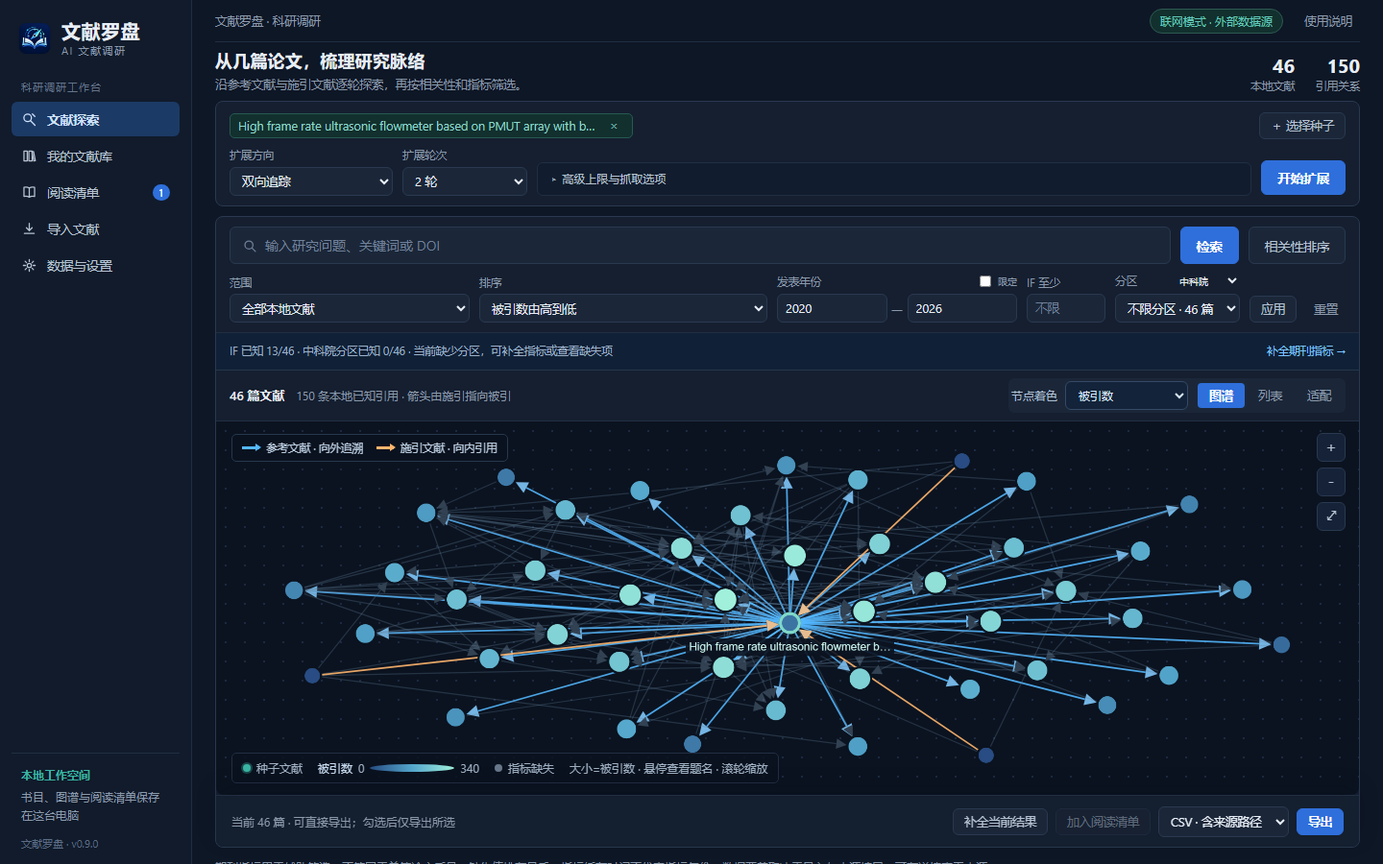
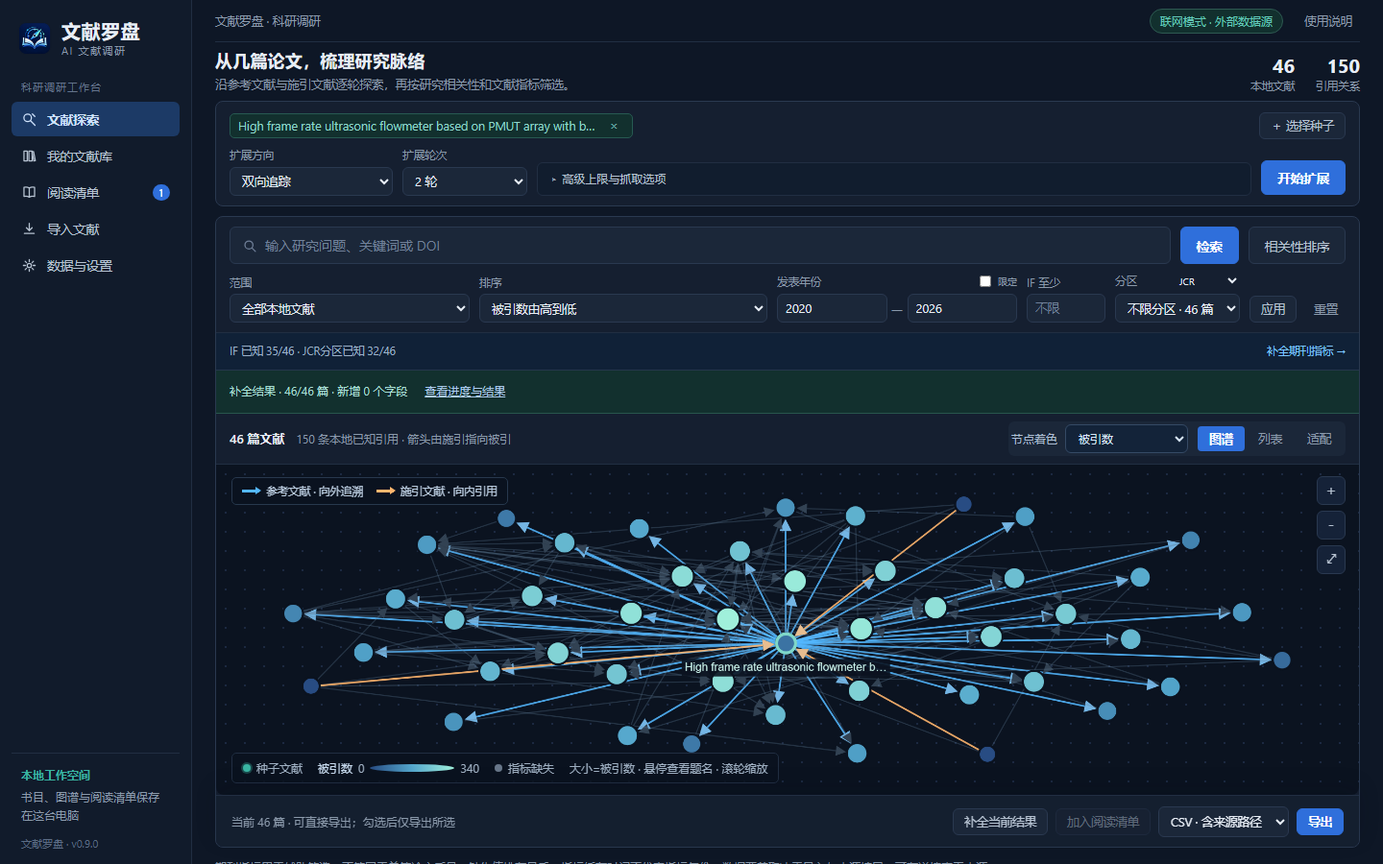
Restore journal metric cache imports and verified partition filtering

diff --git a/static/workspace.html b/static/workspace.html
@@ -25,7 +25,7 @@
 <div id="graph-wrap"><div id="graph" role="img" aria-label="文献引用网络图，点击节点查看文献"></div><div class="graph-zoom"><button id="zoom-in" class="zoom-btn" title="放大" aria-label="放大图谱">＋</button><button id="zoom-out" class="zoom-btn" title="缩小" aria-label="缩小图谱">－</button><button id="zoom-fit" class="zoom-btn" title="适应窗口" aria-label="适应窗口">⤢</button></div><div class="graph-relations"><span><i class="relation-reference"></i>参考文献 · 向外追溯</span><span><i class="relation-citing"></i>施引文献 · 向内引用</span></div><div id="graph-tooltip" class="graph-tooltip" hidden></div><div class="graph-legend" id="graph-color-legend"></div><div id="graph-empty" class="empty" hidden>没有符合条件的文献，请调整筛选条件。</div></div>
 <div id="list-wrap" class="list-wrap" hidden><table class="papers-table"><thead><tr><th><input type="checkbox" id="select-all" aria-label="全选当前结果"></th><th>文献与发现依据</th><th>年份</th><th>被引数</th><th>IF / 分区</th><th>清单</th></tr></thead><tbody id="papers-body"></tbody></table><div id="list-empty" class="empty" hidden>没有符合条件的文献。</div></div><footer class="result-footer"><span id="selection-count">列表中勾选文献以批量操作</span><div><button id="enrich-results" class="secondary small">补全当前结果</button><button id="add-selected" class="secondary small">加入阅读清单</button><select id="export-format" aria-label="导出格式"><option value="csv">CSV · 含来源路径</option><option value="ris">RIS · 文献管理器</option><option value="graphml">GraphML · 图网络</option></select><button id="export-btn" class="primary small">导出</button></div></footer></section><p class="data-footnote">期刊指标用于辅助筛选，不等同于单篇论文质量。缺失值排在最后；指标缓存时间不代表指标年份。数据覆盖取决于导入与来源接口，可在详情查看来源。</p></section>
 <section id="import-page" class="secondary-page" hidden><span class="eyebrow">ADD YOUR PAPERS</span><h1>导入自己的调研起点</h1><p>先导入已知论文，再回到探索工作台选择种子。重复条目会按标识及标题合并。</p><div class="form-card"><label>导入格式<select id="import-format"><option value="doi">DOI · 联网获取书目信息</option><option value="bibtex">BibTeX · 可离线</option><option value="ris">RIS · 可离线</option><option value="standard">标准 JSONL · 可离线</option><option value="pdf-folder">本地 PDF 文件夹</option></select></label><label>导入内容<textarea id="import-content" rows="10" placeholder="每行一个 DOI，或粘贴 BibTeX / RIS / 标准文献 JSONL；PDF 文件夹格式请填写绝对路径"></textarea></label><details><summary>标准格式的引用边与期刊指标</summary><label>引用边 JSONL<textarea id="import-citations" rows="3" placeholder='{"from_doi":"10.x/a","to_doi":"10.x/b"}'></textarea></label><label>期刊指标 JSONL<textarea id="import-venues" rows="3" placeholder='{"name":"期刊名称","impact_factor":"5.0","cas_zone":"2区","source":"自备已授权数据"}'></textarea></label></details><button id="import-btn" class="primary">导入文献</button><pre id="import-result" class="operation-result" hidden></pre></div><div class="form-card"><h2>Zotero 本地文献库</h2><p>先在“数据与设置”启用 Zotero 集成，并在 Zotero 中允许本地 API。同步仅读取书目与附件路径。</p><button id="zotero-sync" class="secondary">同步本地 Zotero</button></div></section>
-<section id="settings-page" class="secondary-page" hidden><span class="eyebrow">MODEL &amp; DATA</span><h1>数据与设置</h1><p>联网时会向所用学术数据源发送 DOI 或检索请求。本地文本排序不调用外部模型。</p><div class="form-card ai-settings-card"><span class="eyebrow">AI 辅助阅读</span><div class="ai-connections-heading"><h2>模型连接</h2><button id="ai-new-profile" class="secondary small">＋ 新建连接</button></div><div id="ai-profile-list" class="ai-profile-list" aria-label="已保存的模型连接"></div><h3 id="ai-editor-title">编辑连接</h3><p>选择模型服务，填入模型名称和 API 密钥，即可使用摘要速览与全文解读。</p><div class="ai-settings-fields"><label>连接名称<input id="ai-profile-name" maxlength="100" placeholder="例如：日常阅读、长文分析" autocomplete="off"></label><label>模型服务<select id="ai-service"><option value="zju">浙江大学模型服务</option><option value="custom">其他支持的兼容接口</option><option value="deepseek">DeepSeek</option><option value="openai">OpenAI</option></select></label><label id="ai-url-row">服务地址<input id="ai-url" type="url" placeholder="粘贴服务商提供的 API 地址" autocomplete="off"></label><label>模型名称<input id="ai-model-name" placeholder="填写服务商提供的模型名称" autocomplete="off"></label><label>API 密钥<input id="ai-key-input" type="password" placeholder="粘贴 API 密钥" autocomplete="off" spellcheck="false"></label></div><label class="ai-enable"><input id="ai-set-active" type="checkbox" checked>设为当前使用的连接</label><label class="ai-enable"><input id="ai-enable-online" type="checkbox" checked>启用 AI（点击生成时联网）</label><div class="ai-save-row"><button id="ai-save-config" class="primary">保存连接</button><button id="ai-test-config" class="secondary">测试连接</button><span id="ai-config-state" role="status">尚未读取配置</span></div><small class="muted">密钥保存在本机，不会显示在页面或导出文件中。</small></div><div class="form-card" id="data-source-settings"><span class="eyebrow">学术数据接口</span><h2>补全书目与期刊指标</h2><p>Crossref 和公开出版商页面无需另配密钥。OpenAlex 用于书目与引用信息；easyScholar 用于 IF、JCR 和中科院分区。模型密钥与这些数据源密钥分别配置。</p><div class="source-config-grid"><label>OpenAlex API Key（可选）<input id="source-openalex-key" type="password" autocomplete="off" placeholder="尚未配置"><span id="source-openalex-status" role="status"></span></label><div><button class="secondary small" data-source-save="openalex">保存</button><button class="text-button" data-source-delete="openalex">删除配置</button></div><label>easyScholar secretKey（补充分区）<input id="source-easyscholar-key" type="password" autocomplete="off" placeholder="尚未配置"><span id="source-easyscholar-status" role="status"></span></label><div><button class="secondary small" data-source-save="easyscholar">保存</button><button class="text-button" data-source-delete="easyscholar">删除配置</button></div></div><p class="muted">密钥不回显。保存后，在文献详情或结果底部点击补全信息。</p></div><div class="form-card"><h2>连接与数据来源</h2><label class="check-label"><input type="checkbox" id="offline-mode">离线模式 · 只使用本地数据与已有缓存</label><label class="check-label"><input type="checkbox" id="zotero-enabled">启用 Zotero 本地只读集成</label><label>OpenAlex 联系邮箱 可选<input id="mailto" type="email" placeholder="按需填写"></label><button id="save-settings" class="primary">保存设置</button><p class="muted">数据源密钥可在上方直接配置；联网可用性受服务认证、限流及数据覆盖范围影响。</p></div><div class="form-card"><h2>本地模型与筛选含义</h2><p>文本相关性采用 TF-IDF 与潜在语义分析 LSA，在本地标题和摘要上建立统计表示。排序分数由 70% 词项相似度与 30% LSA 相似度组成；样本过少时退回 TF-IDF。词表外查询会明确提示。</p><p>引用网络相似度根据共同参考文献与共同施引文献计算。社区颜色来自 Louvain 算法，表示网络结构分组，不自动命名研究主题。期刊 IF 和分区沿用导入或缓存来源，展示的时间是缓存更新时间。</p><a href="/api/export/graphml?include_candidates=true">导出全部本地图谱 GraphML →</a></div></section><footer class="app-footer">文献罗盘 —— AI驱动的科研文献调研与速览平台 <span>面向科研初期调研的文献扩展与筛选</span></footer></main>
+<section id="settings-page" class="secondary-page" hidden><span class="eyebrow">MODEL &amp; DATA</span><h1>数据与设置</h1><p>联网时会向所用学术数据源发送 DOI 或检索请求。本地文本排序不调用外部模型。</p><div class="form-card ai-settings-card"><span class="eyebrow">AI 辅助阅读</span><div class="ai-connections-heading"><h2>模型连接</h2><button id="ai-new-profile" class="secondary small">＋ 新建连接</button></div><div id="ai-profile-list" class="ai-profile-list" aria-label="已保存的模型连接"></div><h3 id="ai-editor-title">编辑连接</h3><p>选择模型服务，填入模型名称和 API 密钥，即可使用摘要速览与全文解读。</p><div class="ai-settings-fields"><label>连接名称<input id="ai-profile-name" maxlength="100" placeholder="例如：日常阅读、长文分析" autocomplete="off"></label><label>模型服务<select id="ai-service"><option value="zju">浙江大学模型服务</option><option value="custom">其他支持的兼容接口</option><option value="deepseek">DeepSeek</option><option value="openai">OpenAI</option></select></label><label id="ai-url-row">服务地址<input id="ai-url" type="url" placeholder="粘贴服务商提供的 API 地址" autocomplete="off"></label><label>模型名称<input id="ai-model-name" placeholder="填写服务商提供的模型名称" autocomplete="off"></label><label>API 密钥<input id="ai-key-input" type="password" placeholder="粘贴 API 密钥" autocomplete="off" spellcheck="false"></label></div><label class="ai-enable"><input id="ai-set-active" type="checkbox" checked>设为当前使用的连接</label><label class="ai-enable"><input id="ai-enable-online" type="checkbox" checked>启用 AI（点击生成时联网）</label><div class="ai-save-row"><button id="ai-save-config" class="primary">保存连接</button><button id="ai-test-config" class="secondary">测试连接</button><span id="ai-config-state" role="status">尚未读取配置</span></div><small class="muted">密钥保存在本机，不会显示在页面或导出文件中。</small></div><div class="form-card" id="data-source-settings"><span class="eyebrow">学术数据接口</span><h2>补全书目与期刊指标</h2><p>Crossref 和公开出版商页面无需另配密钥。OpenAlex 用于书目与引用信息；easyScholar 用于 IF、JCR 和中科院分区。模型密钥与这些数据源密钥分别配置。</p><div class="source-config-grid"><label>OpenAlex API Key（可选）<input id="source-openalex-key" type="password" autocomplete="off" placeholder="尚未配置"><span id="source-openalex-status" role="status"></span></label><div><button class="secondary small" data-source-save="openalex">保存</button><button class="text-button" data-source-delete="openalex">删除配置</button></div><label>easyScholar secretKey（补充分区）<input id="source-easyscholar-key" type="password" autocomplete="off" placeholder="尚未配置"><span id="source-easyscholar-status" role="status"></span></label><div><button class="secondary small" data-source-save="easyscholar">保存</button><button class="text-button" data-source-delete="easyscholar">删除配置</button></div></div><p class="muted">密钥不回显。保存后，在文献详情或结果底部点击补全信息。</p><div class="metric-cache-import"><button class="secondary small" id="import-metric-cache">导入已有指标缓存</button><input type="file" id="metric-cache-file" accept=".jsonl,.ndjson,.json" hidden><span id="metric-cache-status" role="status">支持 easyScholar JSONL，导入后点击补全指标；无需再次联网。</span></div></div><div class="form-card"><h2>连接与数据来源</h2><label class="check-label"><input type="checkbox" id="offline-mode">离线模式 · 只使用本地数据与已有缓存</label><label class="check-label"><input type="checkbox" id="zotero-enabled">启用 Zotero 本地只读集成</label><label>OpenAlex 联系邮箱 可选<input id="mailto" type="email" placeholder="按需填写"></label><button id="save-settings" class="primary">保存设置</button><p class="muted">数据源密钥可在上方直接配置；联网可用性受服务认证、限流及数据覆盖范围影响。</p></div><div class="form-card"><h2>本地模型与筛选含义</h2><p>文本相关性采用 TF-IDF 与潜在语义分析 LSA，在本地标题和摘要上建立统计表示。排序分数由 70% 词项相似度与 30% LSA 相似度组成；样本过少时退回 TF-IDF。词表外查询会明确提示。</p><p>引用网络相似度根据共同参考文献与共同施引文献计算。社区颜色来自 Louvain 算法，表示网络结构分组，不自动命名研究主题。期刊 IF 和分区沿用导入或缓存来源，缓存日期与指标所属年份分别标注，未记录的年份显示未知。</p><a href="/api/export/graphml?include_candidates=true">导出全部本地图谱 GraphML →</a></div></section><footer class="app-footer">文献罗盘 —— AI驱动的科研文献调研与速览平台 <span>面向科研初期调研的文献扩展与筛选</span></footer></main>
 <dialog id="seed-dialog"><div class="dialog-heading"><div><h2>选择种子文献</h2><p>从一篇已知论文出发，也可选择多篇互补的起点。</p></div><button data-close="seed-dialog" class="icon-button" aria-label="关闭种子选择">×</button></div><input id="seed-search" class="full-input" placeholder="搜索标题、中文标题或 DOI" aria-label="搜索种子文献"><div id="seed-results" class="seed-results"></div><div class="dialog-footer"><span id="seed-picked"></span><button id="confirm-seeds" class="primary">使用所选种子</button></div></dialog>
 <dialog id="detail-dialog" class="detail-dialog" data-side-panel="1"><div class="dialog-heading"><span class="eyebrow">文献详情 · PAPER DETAIL</span><button data-close="detail-dialog" class="icon-button" aria-label="关闭文献详情">×</button></div><div id="detail-content"></div><div class="detail-tabs"><button data-detail-tab="overview" class="active">摘要与来源</button><button data-detail-tab="references">参考文献</button><button data-detail-tab="citing">施引文献</button><button data-detail-tab="similar">网络推荐</button></div><div id="detail-tab-content"></div></dialog>
 <dialog id="help-dialog"><div class="dialog-heading"><h2>用一条可追溯的路径开展调研</h2><button data-close="help-dialog" class="icon-button" aria-label="关闭说明">×</button></div><ol class="help-list"><li>选择种子：导入一篇已知论文，再沿参考与施引关系拓展。</li><li>开始扩展：指定方向、轮次和数量。离线探索已有边；联网模式补充 OpenAlex 数据后继续扩展。</li><li>比较筛选：用问题或种子进行本地文本排序，结合年份、IF、分区及被引数筛选。</li><li>查看来源：点击节点或标题，核对摘要、DOI、引用路径和指标来源。</li><li>保存清单：列表勾选或在详情中加入清单，可填写阅读备注并导出 CSV、RIS、GraphML。</li></ol><p class="muted">扩展有采样上限，不承诺穷尽某一方向。引用关系与文本相似度为调研线索，最终判断需要阅读原文。</p></dialog><div id="toast" role="status" hidden></div>

diff --git a/static/workspace.js b/static/workspace.js
@@ -16,7 +16,7 @@ async function loadResults(){const version=++state.request;$('result-count').tex
 function reason(p){const bits=[];if(p.is_seed)bits.push('<span class="tag seed">种子</span>');const d=p.discovery;if(d&&d.depth>0){bits.push(`第 ${d.depth} 轮 · ${d.relation==='references'?'参考文献':'施引文献'} · 经文献 #${d.parent}`);bits.push(typeof d.support_count==='number'?`发现依据 ${d.support_count} 条${d.support_truncated?'（至少）':''}`:'发现依据：未记录');}if(p.relevance!==undefined)bits.push(`文本相关度 ${(p.relevance*100).toFixed(1)}%${p.matched_terms?.length?' · 匹配 '+p.matched_terms.map(esc).join(' / '):''}`);if($('sort').value==='network')bits.push(`网络分数 ${p.network_score} · 共同参考 ${p.shared_refs} · 共同施引 ${p.shared_citers}`);return bits.join('<br>');}
 function renderResults(){const data=state.data;renderMetricAvailability(data.facets);$('result-count').textContent=`${data.total} 篇文献${data.shown<data.total?` · 当前展示 ${data.shown} 篇`:''}`;$('result-caption').textContent=`${data.edges.length} 条本地已知引用 · 箭头由施引指向被引`;$('graph-empty').hidden=!!data.shown;$('list-empty').hidden=!!data.shown;
  const model=data.model;const modelVisible=$('sort').value==='relevance';$('model-note').hidden=!modelVisible;$('model-note').classList.toggle('warning',model.status!=='ok');$('model-note').textContent=modelVisible?`${model.method} ${model.components?`· ${model.components} 个潜在维度`:''}　${model.hint||''}　${model.status==='ok'?`在 ${model.corpus_size} 篇本地文献上建模；分数用于阅读排序。`:''}`:'';
- $('papers-body').innerHTML=data.papers.map(p=>{const v=p.venue_info||{};const hasIF=v.impact_factor!=null&&v.impact_factor!=='';const metricTip=`指标来源：${v.source||'未提供'} · 更新：${v.updated_at||'未知'} · 指标年份：${v.metric_year||'指标年份未知'}`;return `<tr><td><input type="checkbox" data-select="${p.id}" aria-label="选择 ${esc(p.title)}"></td><td><button class="paper-title" data-paper="${p.id}">${esc(p.title||p.title_zh||'未命名文献')}</button>${p.title_zh&&p.title_zh!==p.title?`<div class="paper-zh">${esc(p.title_zh)}</div>`:''}<div class="paper-meta">${esc((p.authors||[]).slice(0,2).join(' · '))}${p.venue?'　|　'+esc(p.venue):''}</div>${reason(p)?`<div class="reason">${reason(p)}</div>`:''}</td><td class="metric">${p.year==null?'—':p.year}</td><td class="metric">${(p.cited_by_count??0).toLocaleString()}</td><td class="metric" title="${esc(metricTip)}">${hasIF?'IF '+esc(v.impact_factor):'IF 未知'}<br>${v.cas_zone!=null&&v.cas_zone!==''?esc(v.cas_zone):'分区未知'}<br><small class="metric-year">${esc(v.metric_year?`指标年份 ${v.metric_year}`:'指标年份未知')}</small></td><td><button class="save-paper ${p.in_reading_list?'saved':''}" data-save="${p.id}" aria-label="${p.in_reading_list?'移出':'加入'}阅读清单">${p.in_reading_list?'▣':'▢'}</button></td></tr>`;}).join('');
+ $('papers-body').innerHTML=data.papers.map(p=>{const v=p.venue_info||{};const hasIF=v.impact_factor!=null&&v.impact_factor!=='';const metricTip=`指标来源：${v.source||'未提供'} · 更新：${v.updated_at||'未知'} · IF 年份：${v.metric_year||'指标年份未知'}`;return `<tr><td><input type="checkbox" data-select="${p.id}" aria-label="选择 ${esc(p.title)}"></td><td><button class="paper-title" data-paper="${p.id}">${esc(p.title||p.title_zh||'未命名文献')}</button>${p.title_zh&&p.title_zh!==p.title?`<div class="paper-zh">${esc(p.title_zh)}</div>`:''}<div class="paper-meta">${esc((p.authors||[]).slice(0,2).join(' · '))}${p.venue?'　|　'+esc(p.venue):''}</div>${reason(p)?`<div class="reason">${reason(p)}</div>`:''}</td><td class="metric">${p.year==null?'—':p.year}</td><td class="metric">${(p.cited_by_count??0).toLocaleString()}</td><td class="metric" title="${esc(metricTip)}">${hasIF?'IF '+esc(v.impact_factor):'IF 未知'}<br>${v.cas_zone!=null&&v.cas_zone!==''?esc(v.cas_zone):'分区未知'}<br><small class="metric-year">${esc(v.metric_year?`IF 年份 ${v.metric_year}`:'指标年份未知')}</small></td><td><button class="save-paper ${p.in_reading_list?'saved':''}" data-save="${p.id}" aria-label="${p.in_reading_list?'移出':'加入'}阅读清单">${p.in_reading_list?'▣':'▢'}</button></td></tr>`;}).join('');
  updateSelection();if(state.view==='graph')drawGraph();}
 function renderMetricAvailability(f){
  if(!f)return;const scheme=$('zone-scheme').value,known=f[scheme+'_known']||0,total=f.total||0,zones=f[scheme+'_zones']||{},sel=$('cas-max'),selected=sel.value;
@@ -175,7 +175,7 @@ async function attachExistingBlocks(p){
       if(sum&&sum.text)extra.insertAdjacentHTML('afterbegin',`<div class="existing-block"><h3>已有总结</h3>${originBadgeHtml(sum.origin)}<p class="abstract">${esc(sum.text)}</p></div>`);
     }
   }catch(e){/* 端点不存在：已有总结区块保持隐藏 */}
-  try{const r=await fetch('/api/research/enrichment/sources/'+myId);if(r.ok&&state.detail?.id===myId&&state.detailTab==='overview'){const data=await r.json();if(data.sources?.length){const names={title:'题名',abstract:'原文摘要',authors:'作者',year:'年份',venue:'期刊',impact_factor:'IF',cas_zone:'中科院分区',jcr_zone:'JCR 分区',title_zh:'中文题名',abstract_zh:'中文摘要译文',summary:'概括'};extra.insertAdjacentHTML('beforeend','<details class="supports-block"><summary>补全信息的来源记录</summary>'+data.sources.map(x=>{let proof={};try{proof=JSON.parse(x.evidence||'{}');}catch(e){}const link=typeof x.url==='string'&&x.url.startsWith('https://')?` · <a href="${esc(x.url)}" target="_blank" rel="noopener">查看来源 ↗</a>`:'';return `<p class="paper-meta">${esc(names[x.field]||x.field)} · ${esc(x.source)} · ${esc(x.recorded_at?.slice(0,10))}${link}</p>${proof.quote?`<blockquote class="source-proof">${esc(proof.quote)}</blockquote>`:''}`;}).join('')+'</details>');}}}catch(e){}
+  try{const r=await fetch('/api/research/enrichment/sources/'+myId);if(r.ok&&state.detail?.id===myId&&state.detailTab==='overview'){const data=await r.json();if(data.sources?.length){const names={title:'题名',abstract:'原文摘要',authors:'作者',year:'年份',venue:'期刊',impact_factor:'IF',cas_zone:'中科院分区',jcr_zone:'JCR 分区',title_zh:'中文题名',abstract_zh:'中文摘要译文',summary:'概括'};extra.insertAdjacentHTML('beforeend','<details class="supports-block"><summary>补全信息的来源记录</summary>'+data.sources.map(x=>{let proof={};try{proof=JSON.parse(x.evidence||'{}');}catch(e){}const metric=['impact_factor','cas_zone','jcr_zone'].includes(x.field);const dates=metric?' · 指标年份 '+(proof.year||'未记录')+(proof.queried_at?' · 来源查询 '+proof.queried_at.slice(0,10):''):'';const link=typeof x.url==='string'&&x.url.startsWith('https://')?` · <a href="${esc(x.url)}" target="_blank" rel="noopener">查看来源 ↗</a>`:'';return `<p class="paper-meta">${esc(names[x.field]||x.field)} · ${esc(x.source)} · ${esc(x.recorded_at?.slice(0,10))}${esc(dates)}${link}</p>${proof.quote?`<blockquote class="source-proof">${esc(proof.quote)}</blockquote>`:''}`;}).join('')+'</details>');}}}catch(e){}
   // 2) Zotero 同步状态（GET /api/library/sync/status?paper_id=<当前 id>，V4-07 修复：
   //    不再请求无过滤的默认前 500 条；响应按 id 校验归属，快速切换不串页）
   try{const r=await fetch(detailSyncStatusUrl(myId));

diff --git a/static/workspace.css b/static/workspace.css
@@ -381,6 +381,7 @@ dialog.detail-dialog::backdrop{background:transparent}
 .source-config-grid{display:grid;grid-template-columns:minmax(0,1fr) auto;gap:16px;align-items:center;margin:20px 0}.source-config-grid input{width:100%;height:38px}.source-config-grid>div{display:flex;gap:6px}.source-config-grid label span{font-size:11px;color:#8ba8c5}
 .enrichment-dialog{width:min(720px,calc(100vw - 32px));max-height:calc(100dvh - 44px);padding:25px;overflow:auto}.enrichment-dialog header{display:flex;justify-content:space-between;align-items:flex-start;gap:15px;margin-bottom:15px}.enrichment-dialog h2{font-size:21px;margin-top:5px}.enrichment-dialog>p{color:#afc1d6;font-size:13px;line-height:1.9}.enrichment-options{display:grid;gap:10px;margin:22px 0}.enrichment-options label{display:flex;flex-direction:row;align-items:flex-start;gap:11px;padding:15px;border:1px solid #2c435d;border-radius:8px;background:#15273c}.enrichment-options input{margin-top:4px}.enrichment-options strong{display:block;color:#dfedf9;font-size:14px;margin-bottom:5px}.enrichment-options small{display:block;line-height:1.8;color:#8fa8c4;font-size:12px}.enrichment-dialog footer{display:flex;gap:10px;justify-content:flex-end;margin-top:22px;padding-top:16px;border-top:1px solid #2b3d53}.enrichment-dialog progress{width:100%;height:9px;accent-color:#49c1a7;margin-top:16px}.enrichment-stats{display:flex;gap:30px;padding:20px 0}.enrichment-stats span{font-size:12px;color:#96abc3}.enrichment-stats strong{font-size:24px;color:#a5e9d8;display:block;margin-bottom:4px}.enrichment-items{max-height:40vh;overflow:auto}.enrichment-items article{padding:15px 0;border-top:1px solid #283c53}.enrichment-items strong{font-size:13px;color:#d8e9f8;line-height:1.6}.enrichment-items p,.enrichment-items summary{font-size:12px;line-height:1.9;color:#92afc8;margin-top:7px}.enrichment-items details{padding:5px 0}.enrichment-items summary{cursor:pointer;color:#d9b886}
 .source-proof{margin:8px 0;padding:8px 12px;border-left:2px solid #416f8b;background:#142438;color:#9fb9d0;font-size:12px;line-height:1.8;overflow-wrap:anywhere}
+.metric-cache-import{display:flex;align-items:center;gap:15px;margin-top:18px;padding-top:18px;border-top:1px solid #2b4058}.metric-cache-import span{font-size:12px;color:#91aac4;line-height:1.8}
 .ai-profile-list{display:grid;gap:9px;margin:14px 0 26px}.ai-profile{display:flex;justify-content:space-between;gap:20px;padding:15px;border:1px solid #30455d;background:#102136;border-radius:8px}.ai-profile>div:first-child{min-width:0}.ai-profile strong{font-size:14px;color:#e2edf9}.ai-profile p{font-size:12px;color:#91a9c4;margin:5px 0;overflow-wrap:anywhere}.profile-active{display:inline-block;font-size:10px;color:#83dfca;background:#163b35;border-radius:12px;padding:2px 8px;margin-left:10px}.profile-test{font-size:11px;color:#8da1b8}.profile-test.ok{color:#7ad8b8}.profile-test.failed{color:#edb087}.profile-actions{display:flex;align-items:center;gap:6px;flex-wrap:wrap;justify-content:flex-end}.profile-actions button{color:#9cc9ed;font-size:12px;padding:5px 8px;border:1px solid #2d4965;border-radius:5px}.profile-actions button.danger{color:#e7a09c}.profile-empty{font-size:13px;color:#9aacbf;padding:17px;border:1px dashed #35475c;border-radius:8px}#ai-editor-title{font-size:15px;color:#cae0f3;padding-top:18px;border-top:1px solid #2d3c50;margin-bottom:13px}.profile-delete-dialog{max-width:460px;padding:24px}.profile-delete-dialog p{margin-top:14px;line-height:1.8}.profile-delete-dialog>div{display:flex;gap:10px;justify-content:flex-end;margin-top:24px}.profile-delete-dialog [data-confirm]{background:#a44441;border-color:#a44441}#toast{pointer-events:none;bottom:76px}
 @media(max-width:1100px){.result-toolbar{flex-wrap:wrap}.result-toolbar>div:first-child{flex:1}.advanced-grid{grid-template-columns:repeat(2,minmax(0,1fr))}.filter-row{gap:8px}}
 @media(max-width:760px){.expansion-controls{grid-template-columns:1fr 1fr}.expansion-controls>.primary{grid-column:2}.graph-relations{font-size:10px;gap:8px;right:55px;left:10px}.result-footer{padding:9px 10px}.result-footer>div{gap:5px}.result-footer .small{padding:5px 7px}.year-label{gap:3px}}

diff --git a/static/data_sources.js b/static/data_sources.js
@@ -2,3 +2,5 @@
 async function load(){const r=await fetch('/api/data-sources');if(!r.ok)throw Error('数据源配置读取失败');const d=await r.json();for(const n of names){const input=document.getElementById('source-'+n+'-key');input.value='';input.placeholder=d[n].configured?'已保存；填写后可替换':'粘贴数据源提供的密钥';document.getElementById('source-'+n+'-status').textContent=d[n].configured?'已配置':'未配置';}}
 document.addEventListener('click',async e=>{if(e.target.closest('[data-page="settings"]'))load().catch(()=>{});const b=e.target.closest('[data-source-save],[data-source-delete]');if(!b)return;const name=b.dataset.sourceSave||b.dataset.sourceDelete,output=document.getElementById('source-'+name+'-status'),input=document.getElementById('source-'+name+'-key');b.disabled=true;output.textContent='正在保存…';try{const r=await fetch('/api/data-sources',{method:'POST',headers:{'Content-Type':'application/json'},body:JSON.stringify({service:name,api_key:input.value,clear:!!b.dataset.sourceDelete})});const d=await r.json();if(!r.ok)throw Error(typeof d.detail==='string'?d.detail:'保存失败');await load();output.textContent=b.dataset.sourceDelete?'配置已删除':'保存成功，可开始补全';}catch(e){output.textContent=e.message;}finally{b.disabled=false;}});
 })();
+
+(()=>{const button=document.getElementById('import-metric-cache'),input=document.getElementById('metric-cache-file'),status=document.getElementById('metric-cache-status');button.onclick=()=>input.click();input.onchange=async()=>{const file=input.files[0];if(!file)return;button.disabled=true;status.textContent='正在导入期刊指标…';try{if(file.size>8000000)throw Error('请选择不超过 8 MB 的文件');const r=await fetch('/api/data-sources/metrics-cache',{method:'POST',headers:{'Content-Type':'application/json'},body:JSON.stringify({text:await file.text()})});const d=await r.json();if(!r.ok)throw Error(typeof d.detail==='string'?d.detail:'缓存导入失败');status.textContent='已导入 '+d.imported+' 个期刊'+(d.rejected?'，跳过 '+d.rejected+' 条无有效指标记录':'')+'。请在文献中点击补全指标。';}catch(e){status.textContent=e.message;}finally{input.value='';button.disabled=false;}};})();

diff --git a/app/data_sources.py b/app/data_sources.py
@@ -2,6 +2,7 @@
 from fastapi import APIRouter,HTTPException
 from .config import DATA_DIR
 from .private_settings import LOCK,read_json,atomic_json,service_key
+import json,os,re,tempfile
 router=APIRouter(prefix='/api/data-sources')
 NAMES={'openalex','easyscholar'}
 
@@ -23,3 +24,49 @@ def save(body:dict):
         try:atomic_json(path,value)
         except OSError:raise HTTPException(500,'数据源设置保存失败')
     return {'saved':True,**status()}
+
+@router.post('/metrics-cache')
+def import_metrics_cache(body:dict):
+    from . import venues
+    from .linkview import number,zone_number
+    text=body.get('text')
+    if not isinstance(text,str) or len(text.encode('utf-8'))>8_000_000:raise HTTPException(400,'请选择不超过 8 MB 的期刊指标 JSONL 文件')
+    lines=[line for line in text.splitlines() if line.strip()]
+    if len(lines)>10000:raise HTTPException(400,'每次最多导入 10000 条期刊指标')
+    records={};rejected=0
+    for line in lines:
+        try:
+            row=json.loads(line);name=row.get('name');rank=row.get('rank')
+            if not isinstance(name,str) or not name.strip() or len(name)>300 or not isinstance(rank,dict):raise ValueError()
+            clean={}
+            for key in ('sciif','sci','sciUp'):
+                value=rank.get(key)
+                if not isinstance(value,(str,int,float)) or isinstance(value,bool):continue
+                value=str(value).strip()
+                if len(value)>40:continue
+                valid=number(value) if key=='sciif' else zone_number(value)
+                if valid is not None and (key!='sciif' or 0<=valid<=1000):
+                    if key=='sciif':
+                        if re.fullmatch(r'\d+(?:\.\d+)?',value):clean[key]=value
+                    else:clean[key]='Q'+str(valid) if key=='sci' else str(valid)+'区'
+            if not clean:raise ValueError()
+            rec={'name':name.strip(),'k':venues.norm_name(name),'rank':clean,'imported':True}
+            at=str(row.get('at') or '')
+            if re.fullmatch(r'\d{4}-\d{2}-\d{2}(?:[ T]\d{2}:\d{2}:\d{2}(?:\.\d+)?(?:Z|[+-]\d{2}:\d{2})?)?',at):rec['at']=at
+            year=row.get('metric_year')
+            if isinstance(year,int) and not isinstance(year,bool) and 1900<=year<=2099:rec['metric_year']=year
+            records[rec['k']]=rec
+        except (ValueError,TypeError,AttributeError):rejected+=1
+    if not records:raise HTTPException(400,'文件中没有有效的 easyScholar 期刊指标记录')
+    with LOCK:
+        values={**venues._load_cache(),**records};path=venues.CACHE_PATH;path.parent.mkdir(parents=True,exist_ok=True)
+        fd,name=tempfile.mkstemp(dir=path.parent,suffix='.tmp')
+        try:
+            with os.fdopen(fd,'w',encoding='utf-8') as out:
+                for row in values.values():out.write(json.dumps(row,ensure_ascii=False)+'\n')
+            os.replace(name,path);venues._cache=values
+        except OSError:raise HTTPException(500,'期刊指标缓存保存失败')
+        finally:
+            from pathlib import Path
+            Path(name).unlink(missing_ok=True)
+    return {'imported':len(records),'rejected':rejected,'message':'指标缓存已导入；点击补全信息即可匹配到文献。缓存日期不作为指标年份。'}

diff --git a/tests/test_metric_cache.py b/tests/test_metric_cache.py
@@ -1,0 +1,42 @@
+"""Legacy cache compatibility, sanitised imports and honest metric dates."""
+import json,os,sys,tempfile,unittest
+from pathlib import Path
+from unittest.mock import patch
+T=tempfile.TemporaryDirectory();os.environ['PAPERNET_DATA_DIR']=T.name
+sys.path.insert(0,str(Path(__file__).resolve().parents[1]))
+from app import venues,data_sources,metadata_sources
+
+class MetricCache(unittest.TestCase):
+ def setUp(self):venues._cache=None;venues.CACHE_PATH.unlink(missing_ok=True)
+ def row(self,**kw):return {'name':'Test & Journal','k':'test and journal','rank':{'sciif':'8.8','sci':'Q1','sciUp':'1区'},'at':'2026-09-26 01:58:06',**kw}
+ def upload(self,row):return data_sources.import_metrics_cache({'text':json.dumps(row,ensure_ascii=False)})
+ def test_legacy_key_uses_journal_name_and_ampersand_alias(self):
+  venues.CACHE_PATH.write_text(json.dumps(self.row()),encoding='utf-8')
+  self.assertEqual(venues.local_rank('Test and Journal')['rank']['sci'],'Q1')
+ def test_import_discards_credentials_and_raw_payload(self):
+  self.upload(self.row(api_key='synthetic-never-stored',raw={'secretKey':'synthetic-never-stored'}))
+  content=venues.CACHE_PATH.read_text(encoding='utf-8');self.assertNotIn('synthetic-never-stored',content)
+  self.assertEqual(venues.local_rank('Test & Journal')['rank']['sciif'],'8.8')
+ def test_cache_query_date_does_not_become_metric_year(self):
+  self.upload(self.row());result=metadata_sources.authorized_metrics('Test & Journal')
+  self.assertIsNone(result['metric_year']);self.assertEqual(result['_source'],'easyScholar 缓存')
+  self.assertEqual(result['evidence']['cas_zone']['queried_at'],'2026-09-26 01:58:06')
+ def test_explicit_metric_year_is_preserved(self):
+  self.upload(self.row(metric_year=2024));self.assertEqual(metadata_sources.authorized_metrics('Test & Journal')['metric_year'],2024)
+ def test_invalid_records_and_empty_ranks_are_counted(self):
+  text='\n'.join([json.dumps(self.row()),'null','[]','invalid',json.dumps(self.row(name='No ranks',rank={}))])
+  result=data_sources.import_metrics_cache({'text':text});self.assertEqual(result['imported'],1);self.assertEqual(result['rejected'],4)
+ def test_empty_and_oversize_uploads_rejected(self):
+  for text in ('', 'x'*8_000_001):
+   with self.assertRaises(data_sources.HTTPException):data_sources.import_metrics_cache({'text':text})
+ def test_failed_atomic_import_preserves_previous_cache(self):
+  self.upload(self.row());before=venues.CACHE_PATH.read_bytes()
+  with patch.object(data_sources.os,'replace',side_effect=OSError('disk')):
+   with self.assertRaises(data_sources.HTTPException):self.upload(self.row(name='New Journal'))
+  self.assertEqual(venues.CACHE_PATH.read_bytes(),before);self.assertIsNone(venues.local_rank('New Journal'))
+ def test_negative_cache_does_not_block_configured_online_lookup(self):
+  with patch.object(venues,'local_rank',return_value={'name':'Test & Journal','rank':None}),patch.object(venues,'load_key',return_value='synthetic'),patch.object(venues,'online_rank',return_value=(self.row(),False)) as lookup:
+   result=metadata_sources.authorized_metrics('Test & Journal')
+  lookup.assert_called_once();self.assertEqual(result['_source'],'easyScholar')
+
+if __name__=='__main__':unittest.main()

diff --git a/app/venues.py b/app/venues.py
@@ -24,7 +24,7 @@ _cache = None
 
 
 def norm_name(name: str) -> str:
-    return re.sub(r"[^a-z0-9\u4e00-\u9fff]+", "", (name or "").lower())
+    return re.sub(r"[^a-z0-9\u4e00-\u9fff]+", "", (name or "").lower().replace('&',' and '))
 
 
 def _load_cache():
@@ -38,16 +38,19 @@ def _load_cache():
                     continue
                 try:
                     rec = json.loads(line)
-                    _cache[rec["k"]] = rec
-                except (ValueError, KeyError):
+                    # Older workflows used spaces and "and" in the cache key;
+                    # the journal's actual name is the stable matching input.
+                    key=norm_name(rec.get('name') or rec.get('k'))
+                    if key:_cache[key] = rec
+                except (ValueError, KeyError, TypeError, AttributeError):
                     continue
     return _cache
 
 
 def local_rank(name: str):
     """本地缓存查询。返回 {rank:{...}, at} 或 None。"""
-    cache = _load_cache()
-    return cache.get(norm_name(name))
+    from .private_settings import LOCK
+    with LOCK:return _load_cache().get(norm_name(name))
 
 
 def load_key():
@@ -89,14 +92,16 @@ def online_rank(name: str, key: str):
         "rank": allrank,
         "at": time.strftime("%Y-%m-%d", time.localtime()),
     }
-    _load_cache()
-    _cache[rec["k"]] = rec
-    try:
-        CACHE_PATH.parent.mkdir(parents=True, exist_ok=True)
-        with CACHE_PATH.open("a", encoding="utf-8", newline="\n") as f:
-            f.write(json.dumps(rec, ensure_ascii=False) + "\n")
-    except OSError:
-        pass  # 共享缓存写失败不影响本次结果
+    from .private_settings import LOCK
+    with LOCK:
+        _load_cache()
+        _cache[rec["k"]] = rec
+        try:
+            CACHE_PATH.parent.mkdir(parents=True, exist_ok=True)
+            with CACHE_PATH.open("a", encoding="utf-8", newline="\n") as f:
+                f.write(json.dumps(rec, ensure_ascii=False) + "\n")
+        except OSError:
+            pass  # 缓存写失败不影响本次结果
     return rec, False
 
 

diff --git a/app/metadata_sources.py b/app/metadata_sources.py
@@ -99,14 +99,16 @@ def nature_metrics(name,memo):
 
 def authorized_metrics(name):
     rec=venues.local_rank(name)
-    if not rec:
+    cached=bool(rec and isinstance(rec.get('rank'),dict) and any(k in venues.rank_to_fields(rec['rank']) for k in ('impact_factor','cas_zone','jcr_zone')))
+    if not cached:
+        rec=None
         key=venues.load_key()
         if not key:return None
         rec,_=venues.online_rank(name,key)
     if not rec or not isinstance(rec.get('rank'),dict):return None
     if rec.get('name') and venues.norm_name(rec['name'])!=venues.norm_name(name):raise IdentityConflict('Journal identity conflict')
-    out=venues.rank_to_fields(rec['rank']);out.update(_source='easyScholar',_url='https://www.easyscholar.cc/',
+    out=venues.rank_to_fields(rec['rank']);out.update(_source='easyScholar 缓存' if cached else 'easyScholar',_url='https://www.easyscholar.cc/',
                                                   evidence={},metric_year=rec.get('metric_year'))
     for key in ('impact_factor','cas_zone','jcr_zone'):
-        if out.get(key):out['evidence'][key]={'value':out[key],'year':rec.get('metric_year'),'url':out['_url']}
+        if out.get(key):out['evidence'][key]={'value':out[key],'year':rec.get('metric_year'),'queried_at':rec.get('at'),'url':out['_url']}
     return out

diff --git a/README.md b/README.md
@@ -52,6 +52,8 @@ python -m app.main
 
 **期刊指标** 使用已授权的 easyScholar 数据或可核对的出版商页面；目前内置 Nature 旗下期刊公开 IF 页面解析。可在 **数据与设置 → 数据源连接** 保存 OpenAlex、easyScholar 密钥。IF 保留指标所属年份，中科院与 JCR 分区分别筛选；未知指标单独计数，并可筛选「分区缺失」。未取得来源时保持未知，AI 不推测分区或把其他引用指标当作 IF。
 
+已有 easyScholar 缓存时，点击 **导入已有指标缓存** 选择 JSONL 文件，再在结果区点击补全指标即可复用。旧版期刊名称键会自动规范化。缓存查询日期与指标年份分别保存；缓存未记录指标年份时保持未知。
+
 ## 使用全文解读
 
 1. 在 Zotero 中为论文保存可读 PDF，或在平台导入 PDF 文件夹。

diff --git a/CHANGELOG.md b/CHANGELOG.md
@@ -9,6 +9,7 @@
 - 模型设置：多连接保存、切换、编辑、删除和逐项测试；测试与生成使用同一激活配置，密钥不回显，删除后不恢复外部旧配置。
 - 页面交互：点击空白或导航关闭详情；延迟返回的旧请求不能重新打开文献。
 - 数据源设置：网页保存和删除 OpenAlex、easyScholar 凭据；仅保存于用户数据目录，不进入源码归档。
+- 指标迁移：支持网页导入已有 easyScholar JSONL；修复旧缓存名称键不兼容及负缓存阻断重查，区分缓存查询日期与指标年份。
 
 ## 0.8.0 — 2026-10-21
 
